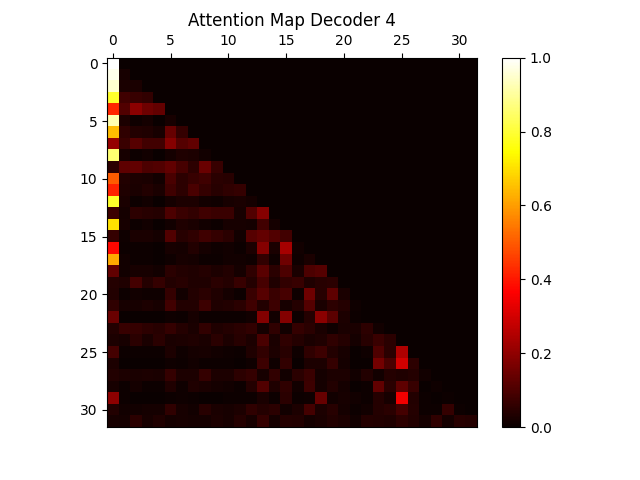
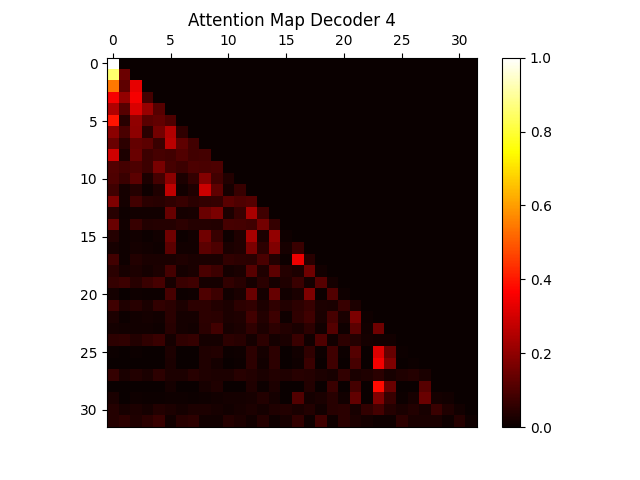
add scheduler + change params Epoch 15, Average Loss: 0.005622373160818158 Validation Accuracy after Epoch 15: 86.8%

diff --git a/PA2/PA2_code/modification_usage.py b/PA2/PA2_code/modification_usage.py
@@ -27,12 +27,14 @@ batch_size = 16  # Number of independent sequences  we will process in parallel
 block_size = 32  # Maximum context length for predictions
 learning_rate = 1e-3  # Learning rate for the optimizer
 n_embd = 64  # Embedding dimension
-n_head = 2  # Number of attention heads
+n_head = 4  # Number of attention heads
 n_layer = 4  # Number of transformer layers
 
 eval_interval = 10  # How often to evaluate train and test perplexity during training
 max_iters = 500  # For language modeling, we can process all the batches for the entire dataset, but that takes a while, so we'll limit it to 500 iterations. For batch size of 16 and block size of  32, this is roughly, this is  500 * 16 * 32 = 256000 tokens, SOTA LMs are trained on trillions of tokens, so this is a very small dataset.
 eval_iters = 20  # Number of iterations to evaluate perplexity on the test set
+step_size = 5
+gamma = 0.5
 
 ## classifier training hyperparameters. It is a simple 1 hidden layer feedforward network, with input
 ## size of 64, hidden size of 50 and output size of 3.
@@ -108,7 +110,9 @@ def main():
     unified_classifier = UnifiedClassifier(encoder, classifier).to(device)
     print(sum(p.numel() for p in unified_classifier.parameters()), 'parameters')
     loss_function = nn.NLLLoss()
-    optimizer = optim.Adam(list(encoder.parameters()) + list(classifier.parameters()), lr=learning_rate)
+    optimizer = optim.AdamW(list(encoder.parameters()) + list(classifier.parameters()), lr=learning_rate)
+    scheduler = optim.lr_scheduler.StepLR(optimizer, step_size=step_size, gamma=gamma)
+
     for epoch in range(epochs_CLS):
         total_loss = 0
         for xb, yb in train_CLS_loader:  # Assume train_CLS_loader is defined and contains input IDs and labels
@@ -127,6 +131,7 @@ def main():
             loss.backward()
             optimizer.step()
 
+        scheduler.step()
         # Optionally print average loss per epoch
         print(f'Epoch {epoch + 1}, Average Loss: {total_loss / len(train_CLS_loader)}')
 
